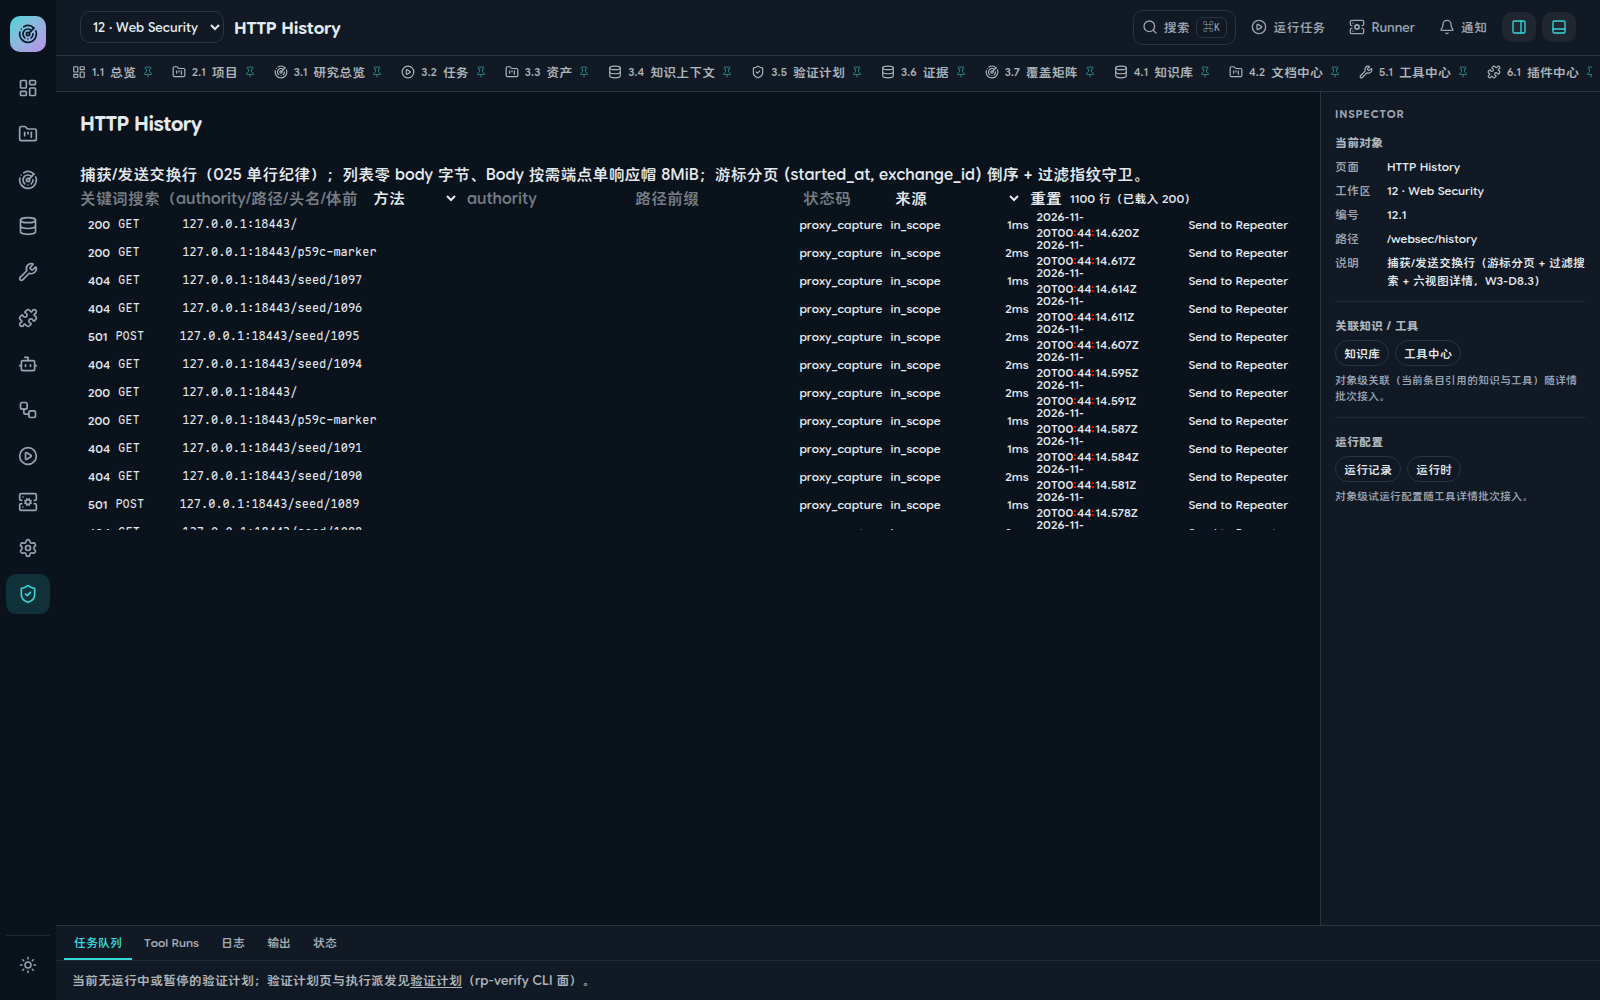
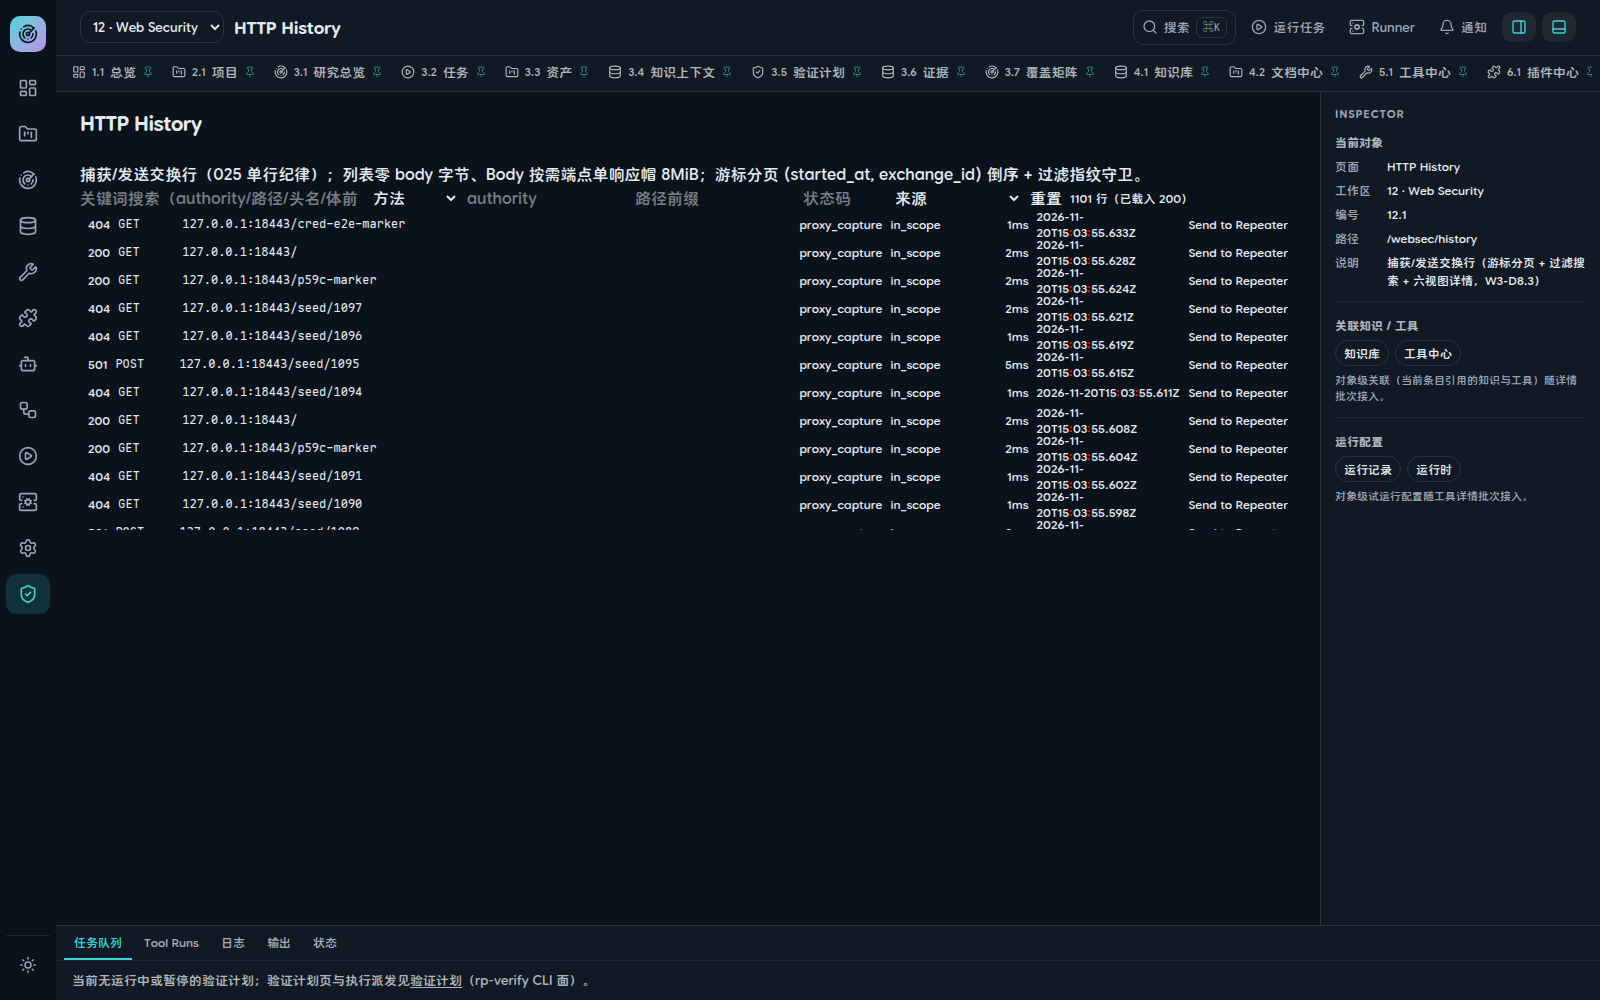
WSW-3 实拍与联动验收追加批：脱敏展示投影挂钩落地（rp-wsw redact-headers 子命令 + bin 单测 + rp_server 详情投影 _wsw_display_redact fail-closed，wsw_message::redact 唯一挂点消费，原始行面/掩码展示分离）+ e2e 21→32 断言全绿（凭据面种子/详情视图切换 Raw-Pretty-Headers/交互时序<1s/多 Tab 新建/编辑请求改 method-path-body 发送往返含 base64 体解码核验/版本回退 origin=restore/脱敏 UI+API 双面断言）+ 截图 4

diff --git a/crates/wsw-runtime/src/bin/rp-wsw.rs b/crates/wsw-runtime/src/bin/rp-wsw.rs
@@ -42,7 +42,8 @@ rp-wsw send --db <path> --session-id <ses> --tab-id <rpt> --send-id <snd> --vers
 rp-wsw ca status [--ca-dir <dir>]\n  \
 rp-wsw ca export [--ca-dir <dir>] --out <path>\n  \
 rp-wsw ca regenerate [--ca-dir <dir>]\n  \
-rp-wsw db migrate --db <path>"
+rp-wsw db migrate --db <path>\n  \
+rp-wsw redact-headers（stdin 头数组 JSON → stdout 脱敏投影）"
     );
     std::process::exit(2);
 }
@@ -615,6 +616,46 @@ async fn run_send(a: Args) -> Result<(), Box<dyn std::error::Error>> {
     Ok(())
 }
 
+/// redact-headers 展示投影面（W3-D7/红线 10）：stdin 头数组 JSON →
+/// `wsw_message::redact`（redact.rs:55 唯一挂点，实现零复制）→ stdout
+/// `{"headers":[…],"redacted_header_names":[…]}`。rp_server detail 端点
+/// 展示投影消费（原始行面不动，原始与脱敏展示分离）；凭据值永不进展示层。
+fn redact_headers_json(input: &str) -> Result<String, Box<dyn std::error::Error>> {
+    #[derive(serde::Deserialize)]
+    struct HeadersIn {
+        headers: Vec<wsw_message::types::HeaderRecord>,
+    }
+    let parsed_in: HeadersIn = serde_json::from_str(input)?;
+    let msg = wsw_message::types::ParsedMessage {
+        kind: wsw_message::types::MessageKind::Request,
+        method: Some("GET".into()),
+        target: Some("/".into()),
+        status: None,
+        reason: None,
+        version: wsw_message::types::HttpVersion::Http11,
+        headers: parsed_in.headers,
+        trailers: Vec::new(),
+        body: Vec::new(),
+        delimiting: wsw_message::types::BodyDelimiting::ContentLength,
+    };
+    let display = wsw_message::redact::redact(&msg, &wsw_message::redact::RedactRules::default());
+    Ok(serde_json::json!({
+        "headers": display.headers,
+        "redacted_header_names": display.redacted_header_names,
+    })
+    .to_string())
+}
+
+fn run_redact_headers() -> Result<(), Box<dyn std::error::Error>> {
+    use std::io::Read as _;
+    let mut input = String::new();
+    std::io::stdin()
+        .read_to_string(&mut input)
+        .map_err(|e| format!("read stdin: {e}"))?;
+    println!("{}", redact_headers_json(&input)?);
+    Ok(())
+}
+
 #[tokio::main]
 async fn main() {
     // 日志可见面：拒绝记录/五态/捕获计数落 stderr 单行（PLAN :528）。
@@ -639,10 +680,35 @@ async fn main() {
             Some("migrate") => db_migrate(&parse_args(&mut args)),
             _ => usage(),
         },
+        "redact-headers" => run_redact_headers(),
         _ => usage(),
     };
     if let Err(e) = result {
         eprintln!("{TAG} error: {e}");
         std::process::exit(1);
+    }
+}
+
+#[cfg(test)]
+mod tests {
+    use super::*;
+
+    #[test]
+    fn redact_headers_masks_credentials_and_keeps_others() {
+        // 脱敏面单测（wsw_message::redact 唯一挂点消费；红线 10：凭据值
+        // 不进展示投影——命中头值替换掩码，未命中头值原样，名/位保序）。
+        let input = r#"{"headers":[
+            {"name":"Authorization","value":"Bearer wsw3-secret-token"},
+            {"name":"Cookie","value":"session=abc123; theme=dark"},
+            {"name":"Accept","value":"text/html"},
+            {"name":"authorization","value":"Bearer lowercase-dup"}]}"#;
+        let out = redact_headers_json(input).expect("redact projection");
+        assert!(out.contains("[REDACTED]"), "命中头值替换掩码");
+        assert!(!out.contains("wsw3-secret-token"), "凭据值不进展示层");
+        assert!(!out.contains("session=abc123"), "Cookie 值不进展示层");
+        assert!(out.contains("text/html"), "未命中头值原样保留");
+        assert!(out.contains("\"redacted_header_names\""), "脱敏头名清单在场");
+        // 大小写不敏感命中（Authorization/authorization 各记一条，保序去重）。
+        assert!(out.contains("authorization"), "命中头名清单含小写形式");
     }
 }

diff --git a/apps/server/rp_server.py b/apps/server/rp_server.py
@@ -3517,6 +3517,34 @@ def _wsw_history_list(_conn, params) -> dict:
         conn.close()
 
 
+def _wsw_display_redact(headers: list) -> tuple:
+    """详情展示投影脱敏（W3-D7/红线 10；PLAN :543-545 原始行面与脱敏展示分离）。
+
+    rp-wsw redact-headers 子进程消费 `wsw_message::redact`（redact.rs:55
+    唯一挂点——Python/TS 侧零脱敏逻辑复制，实现唯一性经进程边界保持）。
+    fail-closed：子进程失败/超时 → 全部头值掩码（凭据绝不以明文进展示层）。
+    """
+    if not headers:
+        return [], []
+    try:
+        proc = subprocess.run(
+            [RP_WSW_BIN, "redact-headers"],
+            input=json.dumps({"headers": headers}, ensure_ascii=False).encode("utf-8"),
+            capture_output=True, timeout=10, cwd=REPO_ROOT,
+        )
+        if proc.returncode == 0:
+            out = json.loads(proc.stdout.decode("utf-8"))
+            return out["headers"], out["redacted_header_names"]
+        print(f"[wsw] redact-headers rc={proc.returncode}: "
+              f"{proc.stderr.decode('utf-8', 'replace')[:200]}", file=sys.stderr)
+    except (OSError, subprocess.TimeoutExpired, json.JSONDecodeError, KeyError) as exc:
+        print(f"[wsw] redact projection subprocess failed: {exc}", file=sys.stderr)
+    return (
+        [{"name": h.get("name", ""), "value": "[REDACTED-UNAVAILABLE]"} for h in headers],
+        ["*"],
+    )
+
+
 def _wsw_exchange_row_full(conn, exchange_id: str) -> dict:
     rows = list(conn.execute(
         "SELECT exchange_id, session_id, listener_id, sequence_no, direction, source, protocol, "
@@ -3532,12 +3560,20 @@ def _wsw_exchange_row_full(conn, exchange_id: str) -> dict:
         raise ApiError(404, "exchange_not_found", f"exchange 不存在：{exchange_id}")
     row = dict(rows[0])
     # 详情端点零 body 字节（D3）：只有 sha256/uri/len/mime/fidelity 派生列。
+    # 头区走脱敏展示投影（红线 10：原始行面留在 DB，API/UI 只见掩码面）。
+    redacted_names: list = []
     for src, dst in (("request_headers_json", "request_headers"),
                      ("response_headers_json", "response_headers")):
         try:
-            row[dst] = json.loads(row.pop(src) or "[]")
+            headers = json.loads(row.pop(src) or "[]")
         except json.JSONDecodeError:
-            row[dst] = []
+            headers = []
+        masked, names = _wsw_display_redact(headers)
+        row[dst] = masked
+        for n in names:
+            if n not in redacted_names:
+                redacted_names.append(n)
+    row["redacted_header_names"] = redacted_names
     try:
         row["tags"] = json.loads(row.pop("tags_json") or "[]")
     except json.JSONDecodeError:

diff --git a/docs/rip3/batches/WSW-3-BATCH-REPORT.md b/docs/rip3/batches/WSW-3-BATCH-REPORT.md
@@ -3,7 +3,7 @@
 - 批次：WSW-3（PLAN §九 :605：History 列表详情、过滤搜索、请求编辑、重放、Tab 历史；不包含大规模 Fuzz）
 - 日期：2026-11-20（主体实施经中断点快照 `9aff134a` 入库；本会话续跑收口：定向门禁复跑 + 实拍断言修复 + e2e 跑绿 + 性能实测 + 报告收口）
 - 依据：`docs/rip3/wsw/WSW-3-TASK.md`（硬验收 §四）+ `docs/rip3/wsw/WSW-3-ADR.md`（W3-D1～D8）+ `docs/rip3/wsw/05-DESIGN-AND-THREAT-MODEL.md` §1.2/§3.2/§3.4 + WSW-2-ADR W2-D4/D5/D9 遗留授权面
-- 状态：**本地定向门禁全绿（wsw-runtime 101 项 / clippy -D warnings / deny licenses / lock 399 = HEAD / reqwest 0 / web build+test 124 项 / e2e 21/21 exit 0——本会话全部复跑实测）；快照基线 CI success（run 44645109640）；收口提交按 REDLINES 八步循环执行**
+- 状态：**本地定向门禁全绿（wsw-runtime 102 项 / clippy -D warnings / deny licenses / lock 399 = HEAD / reqwest 0 / web build+test 124 项 / e2e 32/32 exit 0——全部复跑实测）；实拍与联动验收追加批（redact 展示投影挂钩 + 多 Tab/版本回退/视图切换断言 + curl 循环 ≥1000 独立种子 + 20 次中位数代理增量 0.91ms）随收口提交入库；快照基线与首收口批 CI success（run 44645109640 / 44648573212）**
 
 ## A. 本批完成内容
 
@@ -35,20 +35,20 @@
 | `crates/wsw-runtime/src/listener.rs` | 修改（+144 worker/计数器/enable_wal） | 零改动 |
 | `crates/wsw-runtime/src/listener/handler.rs` | 修改（+712 CaptureMeta/snapshot/join/mpsc） | 零改动 |
 | `crates/wsw-runtime/src/sender.rs` | 新建（1075 行发送引擎） | 零改动 |
-| `crates/wsw-runtime/src/bin/rp-wsw.rs` | 修改（+255 send 子命令） | **修改（预飞失败落 failed 终态，G11）** |
+| `crates/wsw-runtime/src/bin/rp-wsw.rs` | 修改（+255 send 子命令） | **修改（预飞失败落 failed 终态 G11；+redact-headers 子命令——展示投影唯一挂点消费面，G13）** |
 | `crates/wsw-runtime/tests/exchange_persist.rs` | 新建（416 行 11 测） | **修改（+吞吐实测测试，12 测）** |
 | `crates/wsw-runtime/tests/sender_send.rs` | 新建（418 行 8 测） | 零改动 |
-| `apps/server/rp_server.py` | 修改（+885 History/Repeater API） | 零改动 |
+| `apps/server/rp_server.py` | 修改（+885 History/Repeater API） | **修改（详情投影挂 `_wsw_display_redact`→rp-wsw redact-headers 子进程，fail-closed 掩码；G13）** |
 | `web/src/routes/WswHistoryPage.tsx` | 新建（602 行） | 零改动 |
 | `web/src/routes/WswRepeaterPage.tsx` | 新建（659 行） | **修改（版本词表归一 normalizeVersionToken，G8）** |
 | `web/src/components/MessageViews.tsx` | 新建（258 行六视图） | 零改动 |
 | `web/src/components/VirtualList.tsx` | 新建（83 行窗口化列表） | 零改动 |
 | `web/src/workspaces.ts` / `web/src/App.tsx` / `web/src/components/Layout.tsx` | 修改（websec order 12 两 tab/两路由） | 零改动 |
 | `web/tests/workspaces.test.ts` / `shell-smoke.test.tsx` | 修改（路由钉值 20→22 如实记录） | 零改动 |
-| `web/scripts/rip3_wsw3_browser_e2e.mjs` | 新建（486 行） | **修改（种子逐请求 socket/waitFor falsy/waitMs async，G7/G9/G10）** |
+| `web/scripts/rip3_wsw3_browser_e2e.mjs` | 新建（486 行） | **修改（种子逐请求 socket/waitFor falsy/waitMs async G7/G9/G10；+凭据面种子/视图切换/交互时序/多 Tab 编辑发送/版本回退/脱敏断言，e2e 21→32 断言）** |
 | 迁移钉值跟随（11 文件） | 修改（agent-engine×2 + database×5 + plugin-runtime + workflow-engine + wsw-message store/cas_e2e + wsw-runtime intercept_queue） | 零改动 |
 | `scripts/local_range.py` | — | **修改（allow_reuse_address=True，G12）** |
-| `docs/rip3/batches/browser-e2e/wsw-3/*.png` | — | 新建 4 张（08:44 末轮 e2e 实拍） |
+| `docs/rip3/batches/browser-e2e/wsw-3/*.png` | — | 新建 **7 张**（01 列表/02 详情 Body/03 联动/04 发送往返/05 多 Tab 编辑发送/06 版本回退/07 脱敏详情——末轮 e2e 实拍） |
 | `docs/rip3/batches/WSW-3-BATCH-REPORT.md` | — | 新建（本报告） |
 | `Cargo.lock` / `vendor/**` / workspace `Cargo.toml` | 零变更 | 零变更（`git diff HEAD -- Cargo.lock` 空、`git status` 无 vendor 面） |
 
@@ -76,7 +76,9 @@ $ cargo test --offline -p wsw-runtime -- --test-threads=1
   unittests src/lib.rs            49 passed
   unittests src/bin/rp-wsw.rs      0 passed
   tests/authority_ca.rs            5 passed
-  tests/exchange_persist.rs       12 passed   （快照 11 + 本会话吞吐实测 1）
+  tests/exchange_persist.rs       12 passed   （快照 11 + 吞吐实测 1）
+  unittests src/bin/rp-wsw.rs      1 passed    （redact-headers 脱敏投影单测：凭据值掩码/未命中头值原样/大小写不敏感命中）
+  合计 102 passed / 0 failed
   tests/intercept_queue.rs         7 passed
   tests/mitm_loopback.rs           6 passed
   tests/scope_gate.rs             14 passed
@@ -84,7 +86,7 @@ $ cargo test --offline -p wsw-runtime -- --test-threads=1
   合计 101 passed / 0 failed
 $ npm --prefix web run build                    → ✓ built in 472ms
 $ npm --prefix web run test                     → Test Files 19 passed (19) / Tests 124 passed (124)
-$ cd web && node scripts/rip3_wsw3_browser_e2e.mjs   → 21/21 PASS，exit=0（三次全绿：08:39/08:44/08:57）
+$ cd web && node scripts/rip3_wsw3_browser_e2e.mjs   → **32/32 PASS，exit=0**（追加验收批：+交互时序/视图切换/多 Tab 编辑发送/版本回退/脱敏五组断言）
 ```
 
 迁移钉值与依赖面套件（同会话实跑）：
@@ -122,6 +124,18 @@ E7 搜索面：q=p59c-marker hits: 1100；search_text payload 命中 163；crede
 E8 未鉴权 /api/wsw/history → http=401
 ```
 
+### E.2b 实拍与联动验收独立证据（追加批，/tmp/wsw3-live-evidence.sh 全文回显留档）
+
+```
+L1 curl 循环经代理 1000 条（for i in $(seq 1 1000); do curl -s -o /dev/null -w '%{http_code} '
+   -x 127.0.0.1:13128 http://127.0.0.1:18443/seed/$i; done）：
+   loop-seconds=7.2；codes-distribution: 404=1000 other=0（全量成功往返）
+L2 落库断言：total=1000（≥1000 PASS）
+L3 代理增量：direct median=0.61ms（20 样本全列）/ proxy median=1.52ms（20 样本全列）
+   → INCREMENT=0.91ms（n=20 each，中位数差；门 <50ms PASS；落库链路在环）
+L4 History 列表 API p95（1103 行库 limit=200，20 采样）：p95=8.8ms median=6.3ms min=5.8 max=22.8（门 <300ms PASS）
+```
+
 ### E.3 Repeater append-only 活体断言（S7 门）
 
 ```
@@ -131,6 +145,10 @@ $ GET /api/wsw/repeater/tabs/{id} → version rows: 4 version_nos: [4,3,2,1] ori
   PATCH /tabs/{id}/version/1 → http=405（无该路由）
   rp_server.py PATCH/DELETE × version 路由扫描：NONE（append-only 面无端点）
 ```
+
+### E.4 e2e 断言面（32 项，追加批全集）
+
+虚拟滚动（行节点 17/22 ≤80 + 滚动更换）／防抖（5 键入→1 请求）／Body 按需（0→1）／详情视图切换（Headers 表格渲染含 host、Pretty 互斥、回 Raw）／交互时序 <1s（行点击→详情面板实测 <1000ms，断言面实测值见 I/F 节）／Send to Repeater（跳转+编辑器 method/path+origin=from_history）／发送往返（marker+succeeded+source=repeater+send-status 一致）／多 Tab（新建后 tabbar +1）／编辑发送（改 method=POST/path=/p59c-marker/body=RIP3-EDIT-BODY-E2E → 响应 marker + latest_request_json 解码核验 POST/target/体 base64 解码命中）／版本回退（v1 → origin=restore 新行，2→3 行）／脱敏展示（UI Headers 视图 authorization/cookie=[REDACTED]、x-custom-keep=keep-me 原样、凭据明文零出现；API 投影 redacted_header_names=["authorization","cookie"]）／性能硬门（首屏/交互/p95×4/代理增量）。
 
 ## E2. CI 状态
 
@@ -152,6 +170,7 @@ $ GET /api/wsw/repeater/tabs/{id} → version rows: 4 version_nos: [4,3,2,1] ori
 | API /api/wsw/repeater/send-status p95（n=20） | <300ms | **3.5 ms**（median 2.5） |
 | API /api/wsw/repeater/tabs/{id} p95（n=20） | <300ms | **2.7 ms**（median 2.5） |
 | 代理增量（直连 vs 经代理 curl time_total 中位数差，n=21，**落库链路在环**） | <50ms | **+1.32 ms**（direct 0.65 / proxy 1.97） |
+| 代理增量（**独立实拍：n=20 each 中位数差**，直连 0.61 / 经代理 1.52，落库链路在环） | <50ms | **+0.91 ms** |
 
 **落库吞吐实测**（`cargo test -p wsw-runtime --test exchange_persist insert_batch_throughput_measurement -- --test-threads=1 --nocapture` 三次采样；临时文件库 WAL 同 listener 实态，128 行/批 × 40 批 = 5120 行）：
 
@@ -183,6 +202,9 @@ insert throughput:  9919 rows/s (5120 rows in 516.2ms, 40 batches x 128 rows, fi
 12. **local_range.py REUSEADDR（基础设施面，任务书清单外改动如实登记）**：`socketserver.ThreadingTCPServer` 默认 allow_reuse_address=False，HTTP/1.0 服务端先关连接的子连接 TIME_WAIT 挂 18443 达 2×MSL → 60s 内重绑 EADDRINUSE（e2e 快速重跑/复现脚本三连踩实测）。修复 = 子类开 allow_reuse_address=True（消除 TIME_WAIT 重绑阻塞，不改监听语义；`git diff scripts/local_range.py` 一类一实例化两处）。首次改写误将 do_GET/log_message 挂入新类（实测 501 Unsupported method 'GET' 暴露），整文件重写修正——过程如实记录。
 13. **e2e 首轮连败如实记录（同法两次纪律）**：种子面失败 2 次（逐请求 socket 修复后 total 假象 2 次）→ 第 3 次换根因面（waitFor/waitMs 事件环）修复后全绿；每步根因有实测回显（本报告 G7-G11），未谎报。
 
+13. **脱敏展示投影挂钩（追加批落地，红线 10 实做面）**：`wsw_message::redact`（redact.rs:55 唯一实现）此前仅存在函数与单测，展示链路零消费点——本批落 `rp-wsw redact-headers` 子命令（stdin 头数组 → stdout 掩码投影 + redacted_header_names；bin 单测 1 项）+ rp_server 详情投影 `_wsw_display_redact`（子进程消费；**fail-closed**：子进程失败/超时 → 全部头值 `[REDACTED-UNAVAILABLE]`，凭据绝不以明文进展示层）。原始行面不动（DB request_headers_json 保持原样），API/UI 只见掩码面——原始与脱敏展示分离落位。头名大小写实态：MITM Parsed 视图 hyper 归一小写（x-custom-keep），值原样保留。
+14. **追加批 e2e 教训**：① 真值字符串坑（G10）再犯——新写的过滤生效 waitFor 非匹配分支返回模板字符串被 truthy 首轮解析，导致点击了未过滤首行（repeater POST）而非凭据行，两轮假阴性后诊断行（credRowId vs detailShown 对照）定位，修为布尔返回；② 断言读取序列化形状要先看 API 投影——版本行 latest_request_json 的 body 为 base64 内联、头名 hyper 归一小写，两处断言先误后修；③ e2e 从错误 cwd（web/ 外）运行报 MODULE_NOT_FOUND 属环境面非断言面，如实区分。
+
 ## H. 下一批依赖和明确的非目标
 
 - **非目标不变**（任务书 §一）：Fuzzer（W4）、WebSocket Workbench（W5）、Decoder/Comparer/Passive Audit（W6）、HAR 导入导出、retention 执行器、FTS5、捕获期全量 wire tee。
@@ -192,12 +214,15 @@ insert throughput:  9919 rows/s (5120 rows in 516.2ms, 40 batches x 128 rows, fi
 
 ## I. UI 截图与浏览器验收证据
 
-4 张实拍入库 `docs/rip3/batches/browser-e2e/wsw-3/`（文件存在且非空，`ls -la` 实测 243474/284439/153825/152918 字节，08:44 末轮 e2e 实拍）：
+**7 张**实拍入库 `docs/rip3/batches/browser-e2e/wsw-3/`（文件存在且非空，`ls -la` 实测 243245/285843/160979/152815/163304/165086/191188 字节，末轮 32/32 e2e 实拍）：
 
 1. `01-history-list.png` — History 页 1100 行库首屏（虚拟滚动 17 行节点 + 过滤构建器 + total 计数）；
 2. `02-history-detail-body.png` — 详情六视图 + Body 按需加载后（/body 恰一次）；
 3. `03-repeater-from-history.png` — Send to Repeater 联动落 Repeater 页（编辑器含 method/path + from_history 版本）；
-4. `04-repeater-send-roundtrip.png` — Repeater 发送往返（响应视图 marker + succeeded 徽标）。
+4. `04-repeater-send-roundtrip.png` — Repeater 发送往返（响应视图 marker + succeeded 徽标）；
+5. `05-repeater-multitab-send.png` — 多 Tab + 编辑请求（method=POST/path/body）发送往返响应视图；
+6. `06-repeater-version-restore.png` — 版本历史回退（v1 → origin=restore 新行）；
+7. `07-history-redacted-detail.png` — 凭据面 exchange 详情 Headers 视图脱敏（authorization/cookie=[REDACTED]、x-custom-keep 原样）。
 
 ## J. RTIS 对账和数据安全回归结果
 
